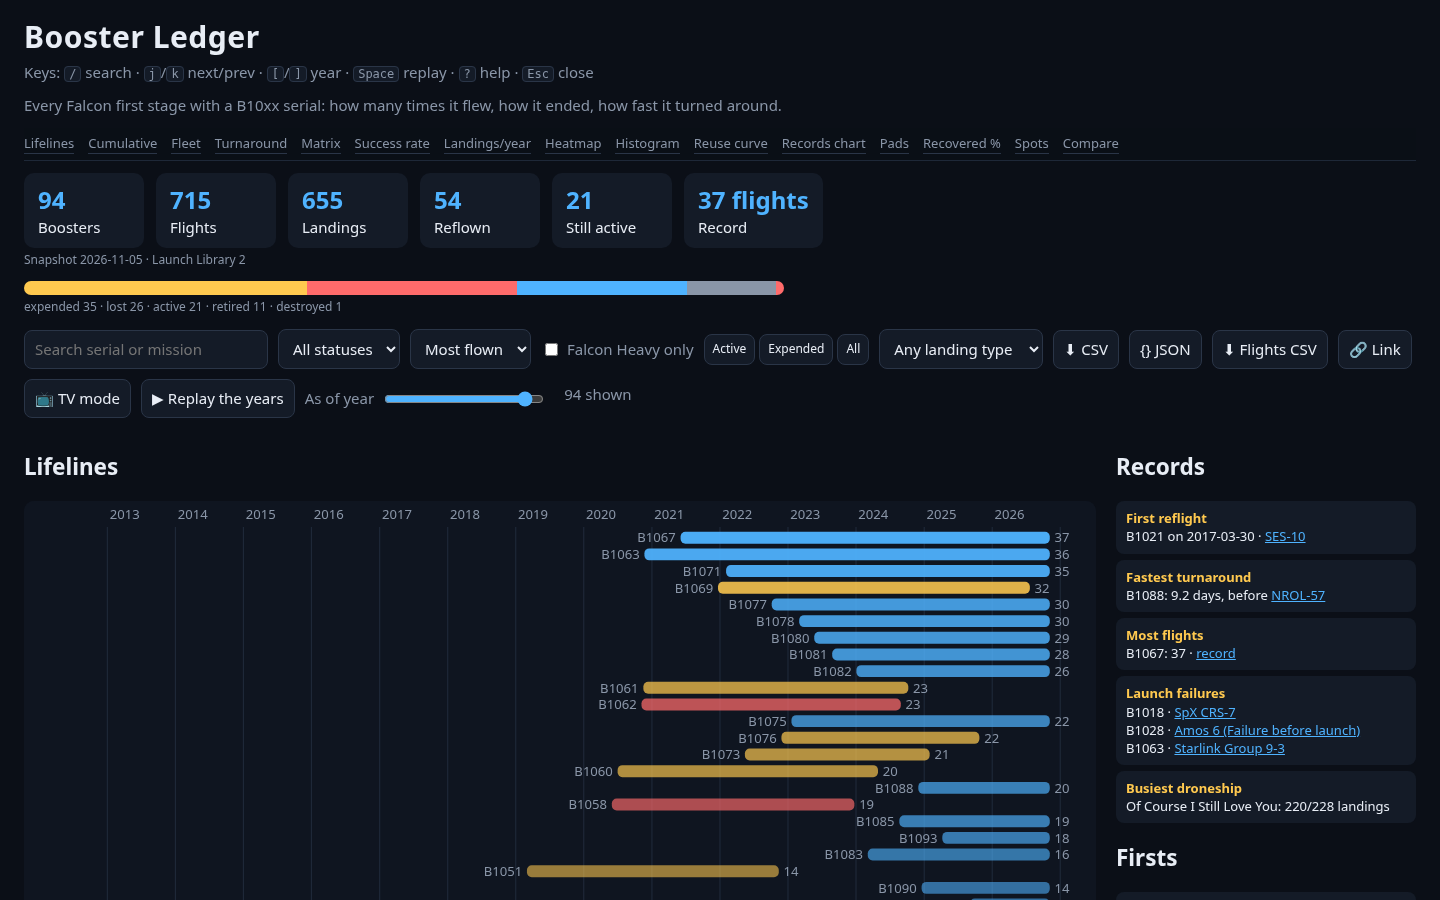
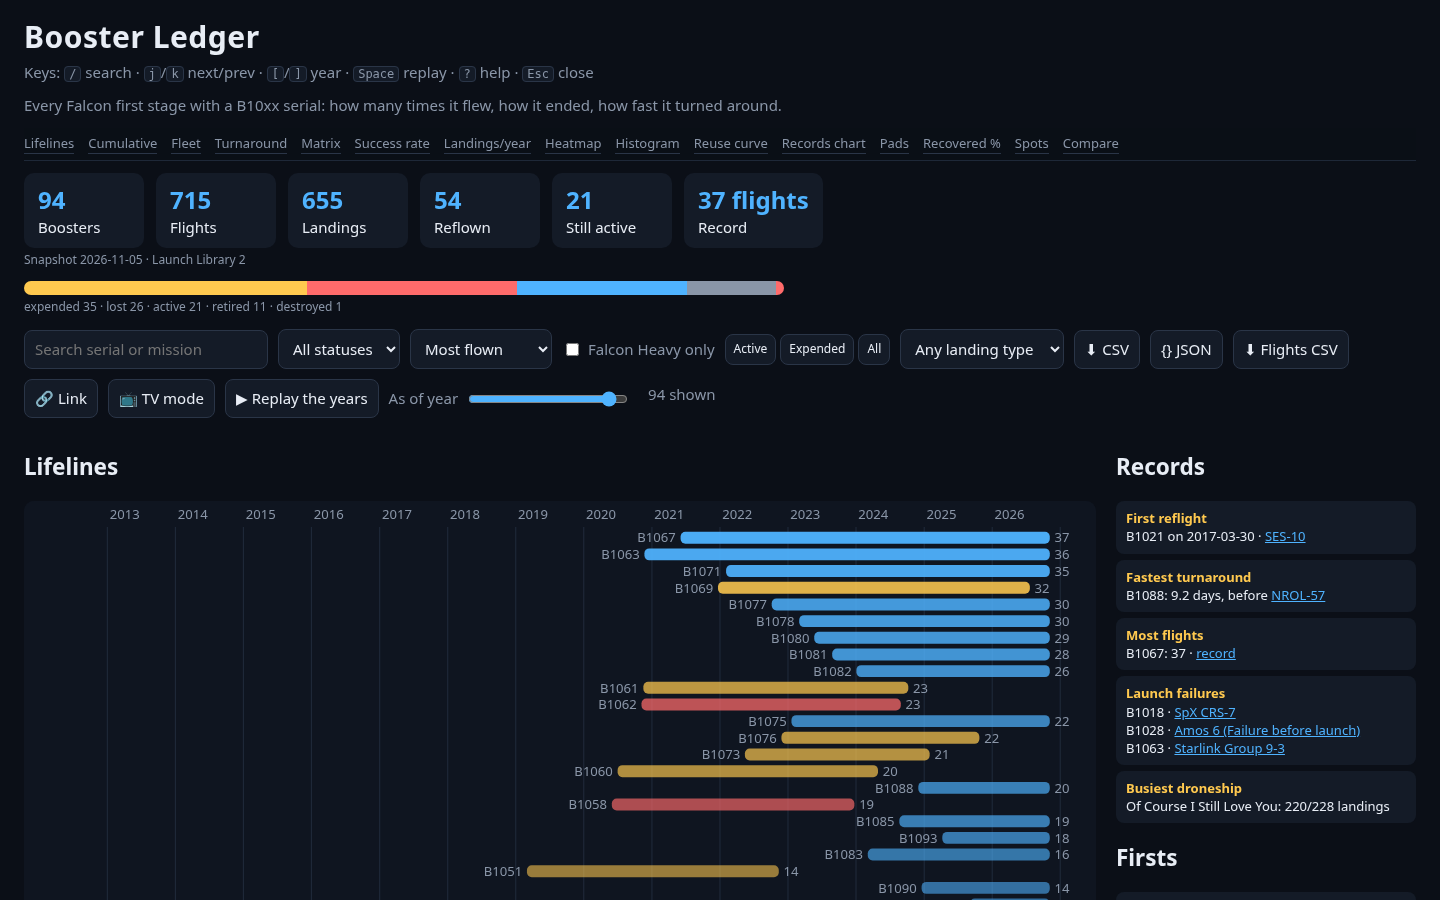
Round 44-45: DOM-vs-raw failures+stats; Most-landings sort; shots refresh; 210 unit / 125 e2e / 18 mutants

Changed region(s): [[0.375, 0.3733, 0.9688, 0.4044], [0.0312, 0.4356, 0.4375, 0.4667], [0.4688, 0.4356, 0.5, 0.4667]]

diff --git a/src/index.html b/src/index.html
@@ -1,9 +1,9 @@
 <!doctype html><html lang="en"><head><meta charset="utf-8"><meta name="viewport" content="width=device-width,initial-scale=1">
 <title>Booster Ledger — Falcon reuse, flight by flight</title><link rel="stylesheet" href="style.css"></head>
-<body><a class="skip" href="#lanes">Skip to lifelines</a><header><h1>Booster Ledger</h1><p class="keys sub">Keys: <kbd>/</kbd> search · <kbd>j</kbd>/<kbd>k</kbd> next/prev · <kbd>[</kbd>/<kbd>]</kbd> year · <kbd>Space</kbd> replay · <kbd>?</kbd> help · <kbd>Esc</kbd> close</p><p class="lede sub">Every Falcon first stage with a B10xx serial: how many times it flew, how it ended, how fast it turned around.</p></header>
+<body><a class="skip" href="#lanes">Skip to lifelines</a><header><h1>Booster Ledger</h1><p class="keys sub">Keys: <kbd>/</kbd> search · <kbd>j</kbd>/<kbd>k</kbd> next/prev · <kbd>[</kbd>/<kbd>]</kbd> year · <kbd>Space</kbd> replay · <kbd>r</kbd> random · <kbd>?</kbd> help · <kbd>Esc</kbd> close</p><p class="lede sub">Every Falcon first stage with a B10xx serial: how many times it flew, how it ended, how fast it turned around.</p></header>
 <details id="tocwrap" open><summary>On this page ▾</summary><nav id="toc" aria-label="On this page"><a href="#lanes">Lifelines</a><a href="#cumfleet">Cumulative</a><a href="#fleet">Fleet</a><a href="#trend">Turnaround</a><a href="#matrix">Matrix</a><a href="#rate">Success rate</a><a href="#years">Landings/year</a><a href="#heat">Heatmap</a><a href="#hist">Histogram</a><a href="#reuse">Reuse curve</a><a href="#prog">Records chart</a><a href="#padcadence">Pads</a><a href="#recovered">Recovered %</a><a href="#spots">Spots</a><a href="#cmp">Compare</a></nav></details><section id="stats" aria-label="fleet stats"></section><div id="fate" role="img" aria-label="how boosters ended"></div>
 <section class="controls"><input id="q" placeholder="Search serial or mission" aria-label="search"><select id="status" aria-label="status"><option value="all">All statuses</option></select>
-<select id="sort" aria-label="sort"><option value="flights">Most flown</option><option value="first">First flight</option><option value="newest">Newest</option></select>
+<select id="sort" aria-label="sort"><option value="flights">Most flown</option><option value="first">First flight</option><option value="newest">Newest</option><option value="landings">Most landings</option></select>
 <label class="chk"><input type="checkbox" id="fh"> Falcon Heavy only</label>
 <span id="quick" class="quick"><button type="button" data-st="active">Active</button><button type="button" data-st="expended">Expended</button><button type="button" data-st="all">All</button></span>
 <select id="lt" aria-label="landing type"><option value="all">Any landing type</option><option value="ASDS">ASDS (droneship)</option><option value="RTLS">RTLS (land)</option><option value="Ocean">Ocean</option><option value="EXP">Expended</option></select>
@@ -29,4 +29,4 @@
 <section id="cmp"><h2>Compare two boosters</h2><select id="ca" aria-label="booster A"></select> vs <select id="cb" aria-label="booster B"></select><svg id="cmpsvg" role="img" aria-label="cumulative flights of both boosters over time"></svg><table id="ctable"></table></section>
 </div>
 <dialog id="drawer" aria-labelledby="dtitle"><button id="close" aria-label="Close details">✕ Close</button><div id="detail"></div></dialog>
-<footer id="src"></footer><noscript><p>Booster Ledger needs JavaScript. The data is in <a href="boosters.json">boosters.json</a> and <a href="flights.json">flights.json</a>.</p></noscript><div id="err" hidden></div><div id="tv" hidden aria-live="polite"></div><script type="module" src="app.js"></script><dialog id="help" aria-label="Keyboard shortcuts"><h2>Keys</h2><ul><li><kbd>/</kbd> search</li><li><kbd>j</kbd>/<kbd>k</kbd> next/prev booster</li><li><kbd>[</kbd>/<kbd>]</kbd> as-of year</li><li><kbd>Space</kbd> replay</li><li><kbd>?</kbd> this help</li><li><kbd>Esc</kbd> close</li></ul><button id="helpclose">Close</button></dialog></body></html>
+<footer id="src"></footer><noscript><p>Booster Ledger needs JavaScript. The data is in <a href="boosters.json">boosters.json</a> and <a href="flights.json">flights.json</a>.</p></noscript><div id="err" hidden></div><div id="tv" hidden aria-live="polite"></div><script type="module" src="app.js"></script><dialog id="help" aria-label="Keyboard shortcuts"><h2>Keys</h2><ul><li><kbd>/</kbd> search</li><li><kbd>j</kbd>/<kbd>k</kbd> next/prev booster</li><li><kbd>[</kbd>/<kbd>]</kbd> as-of year</li><li><kbd>Space</kbd> replay</li><li><kbd>r</kbd> random active booster</li><li><kbd>?</kbd> this help</li><li><kbd>Esc</kbd> close</li></ul><button id="helpclose">Close</button></dialog></body></html>

diff --git a/e2e/r44-verify.spec.js b/e2e/r44-verify.spec.js
@@ -1,0 +1,32 @@
+import { test, expect } from '@playwright/test';
+import fs from 'node:fs';
+import { createRequire } from 'node:module';
+// Use ledger via dynamic import
+const snap = JSON.parse(fs.readFileSync('src/boosters.json', 'utf8'));
+const fsnap = JSON.parse(fs.readFileSync('src/flights.json', 'utf8'));
+
+test('records launch failures match raw Failure status', async ({ page }) => {
+  await page.goto('/');
+  await page.waitForSelector('body[data-ready="1"]');
+  const raw = fsnap.flights.filter(f => f.launch_status && f.launch_status !== 'Success');
+  const text = await page.locator('#records').innerText();
+  for (const f of raw) {
+    expect(text, f.serial).toContain(f.serial);
+  }
+  expect(raw.map(f => f.serial).sort()).toEqual(['B1018', 'B1028', 'B1063']);
+});
+
+test('stats cards equal fleetStats on raw load', async ({ page }) => {
+  const { load, fleetStats } = await import('../src/ledger.js');
+  const s = fleetStats(load(snap));
+  await page.goto('/');
+  await page.waitForSelector('body[data-ready="1"]');
+  const cards = await page.locator('#stats .stat').allTextContents();
+  const joined = cards.join(' | ');
+  expect(joined).toContain(String(s.boosters));
+  expect(joined).toContain(String(s.flights));
+  expect(joined).toContain(String(s.landings));
+  expect(joined).toContain(String(s.reflown));
+  expect(joined).toContain(String(s.active));
+  expect(joined).toContain(String(s.maxFlights));
+});

diff --git a/src/app.js b/src/app.js
@@ -173,6 +173,15 @@ document.addEventListener('keydown', e => {
   }
   if ($('drawer').open) return;
   if (e.key === '/') { e.preventDefault(); $('q').focus(); }
+  if (e.key === 'r' && !e.metaKey && !e.ctrlKey && !e.altKey) {
+    const pool = all.filter(b => b.status === 'active');
+    if (pool.length) {
+      e.preventDefault();
+      const seed = Number(new URLSearchParams(location.search).get('seed')) || (Date.now() % 1e9);
+      const pick = pool[Math.abs(seed) % pool.length];
+      open(pick.serial);
+    }
+  }
   else if (e.key === ' ' && !e.target.matches('button,.lane')) { e.preventDefault(); $('play').click(); }
 });
 $('drawer').addEventListener('close', () => history.replaceState(null, '', location.pathname + location.search));

diff --git a/e2e/r45.spec.js b/e2e/r45.spec.js
@@ -1,0 +1,15 @@
+import { test, expect } from '@playwright/test';
+
+test('Most landings sort puts top lander first and is shareable', async ({ page }) => {
+  await page.setViewportSize({ width: 1440, height: 900 });
+  await page.goto('/');
+  await page.waitForSelector('body[data-ready="1"]');
+  await page.selectOption('#sort', 'landings');
+  const first = await page.locator('#lanes .lane').first().getAttribute('data-s');
+  expect(first).toMatch(/^B10\d\d$/);
+  expect(page.url()).toContain('sort=landings');
+  await page.reload();
+  await page.waitForSelector('body[data-ready="1"]');
+  await expect(page.locator('#sort')).toHaveValue('landings');
+  await expect(page.locator('#lanes .lane').first()).toHaveAttribute('data-s', first);
+});

diff --git a/src/ledger.js b/src/ledger.js
@@ -60,6 +60,7 @@ export const SORTS = {
   flights: (a, b) => b.flights - a.flights || a.serial.localeCompare(b.serial),
   first: (a, b) => a.firstMs - b.firstMs || a.serial.localeCompare(b.serial),
   newest: (a, b) => b.firstMs - a.firstMs || a.serial.localeCompare(b.serial),
+  landings: (a, b) => b.landings_ok - a.landings_ok || b.flights - a.flights || a.serial.localeCompare(b.serial),
 };
 export function sortBy(bs, key = 'flights') {
   if (!Object.hasOwn(SORTS, key)) throw new Error(`unknown sort ${key}`);

diff --git a/test/r45.test.js b/test/r45.test.js
@@ -1,0 +1,11 @@
+import { it, expect } from 'vitest';
+import { readFileSync } from 'node:fs';
+import { load, sortBy } from '../src/ledger.js';
+const all = load(JSON.parse(readFileSync('src/boosters.json', 'utf8')));
+it('sort by landings puts highest landings_ok first', () => {
+  const rows = sortBy(all, 'landings');
+  for (let i = 1; i < rows.length; i++) {
+    const a = rows[i - 1], b = rows[i];
+    expect(a.landings_ok).toBeGreaterThanOrEqual(b.landings_ok);
+  }
+});

diff --git a/CHANGELOG.md b/CHANGELOG.md
@@ -2,9 +2,10 @@
 
 ## 0.2.0 — 2026-11-05 (draft PR #1)
 
-TokenMax final-day burn rounds 17–43 on branch `v0.2`.
+TokenMax final-day burn rounds 17–45 on branch `v0.2`.
 
 ### Added
+- Most-landings sort (shareable `?sort=landings`)
 - Drawer copy-link + per-booster flights CSV
 - Cumulative fleet flights chart; `?` keyboard help dialog
 - Year scrubber + `[`/`]` nudge; Space replay shares the same cutoff
@@ -18,6 +19,7 @@ TokenMax final-day burn rounds 17–43 on branch `v0.2`.
 - Mutation suite (18 mutants) and deep DOM-vs-raw number tests
 
 ### Fixed
+- DOM-vs-raw checks for launch failures + stats cards (r44)
 - TV mode uses a 60s default interval under prefers-reduced-motion (r43)
 - Property tests: spots↔attempts, rank uniqueness, asOf monotonic, cumfleet end (r41)
 - Empty state hides lanewrap; drawer per-booster flights CSV (r40)
